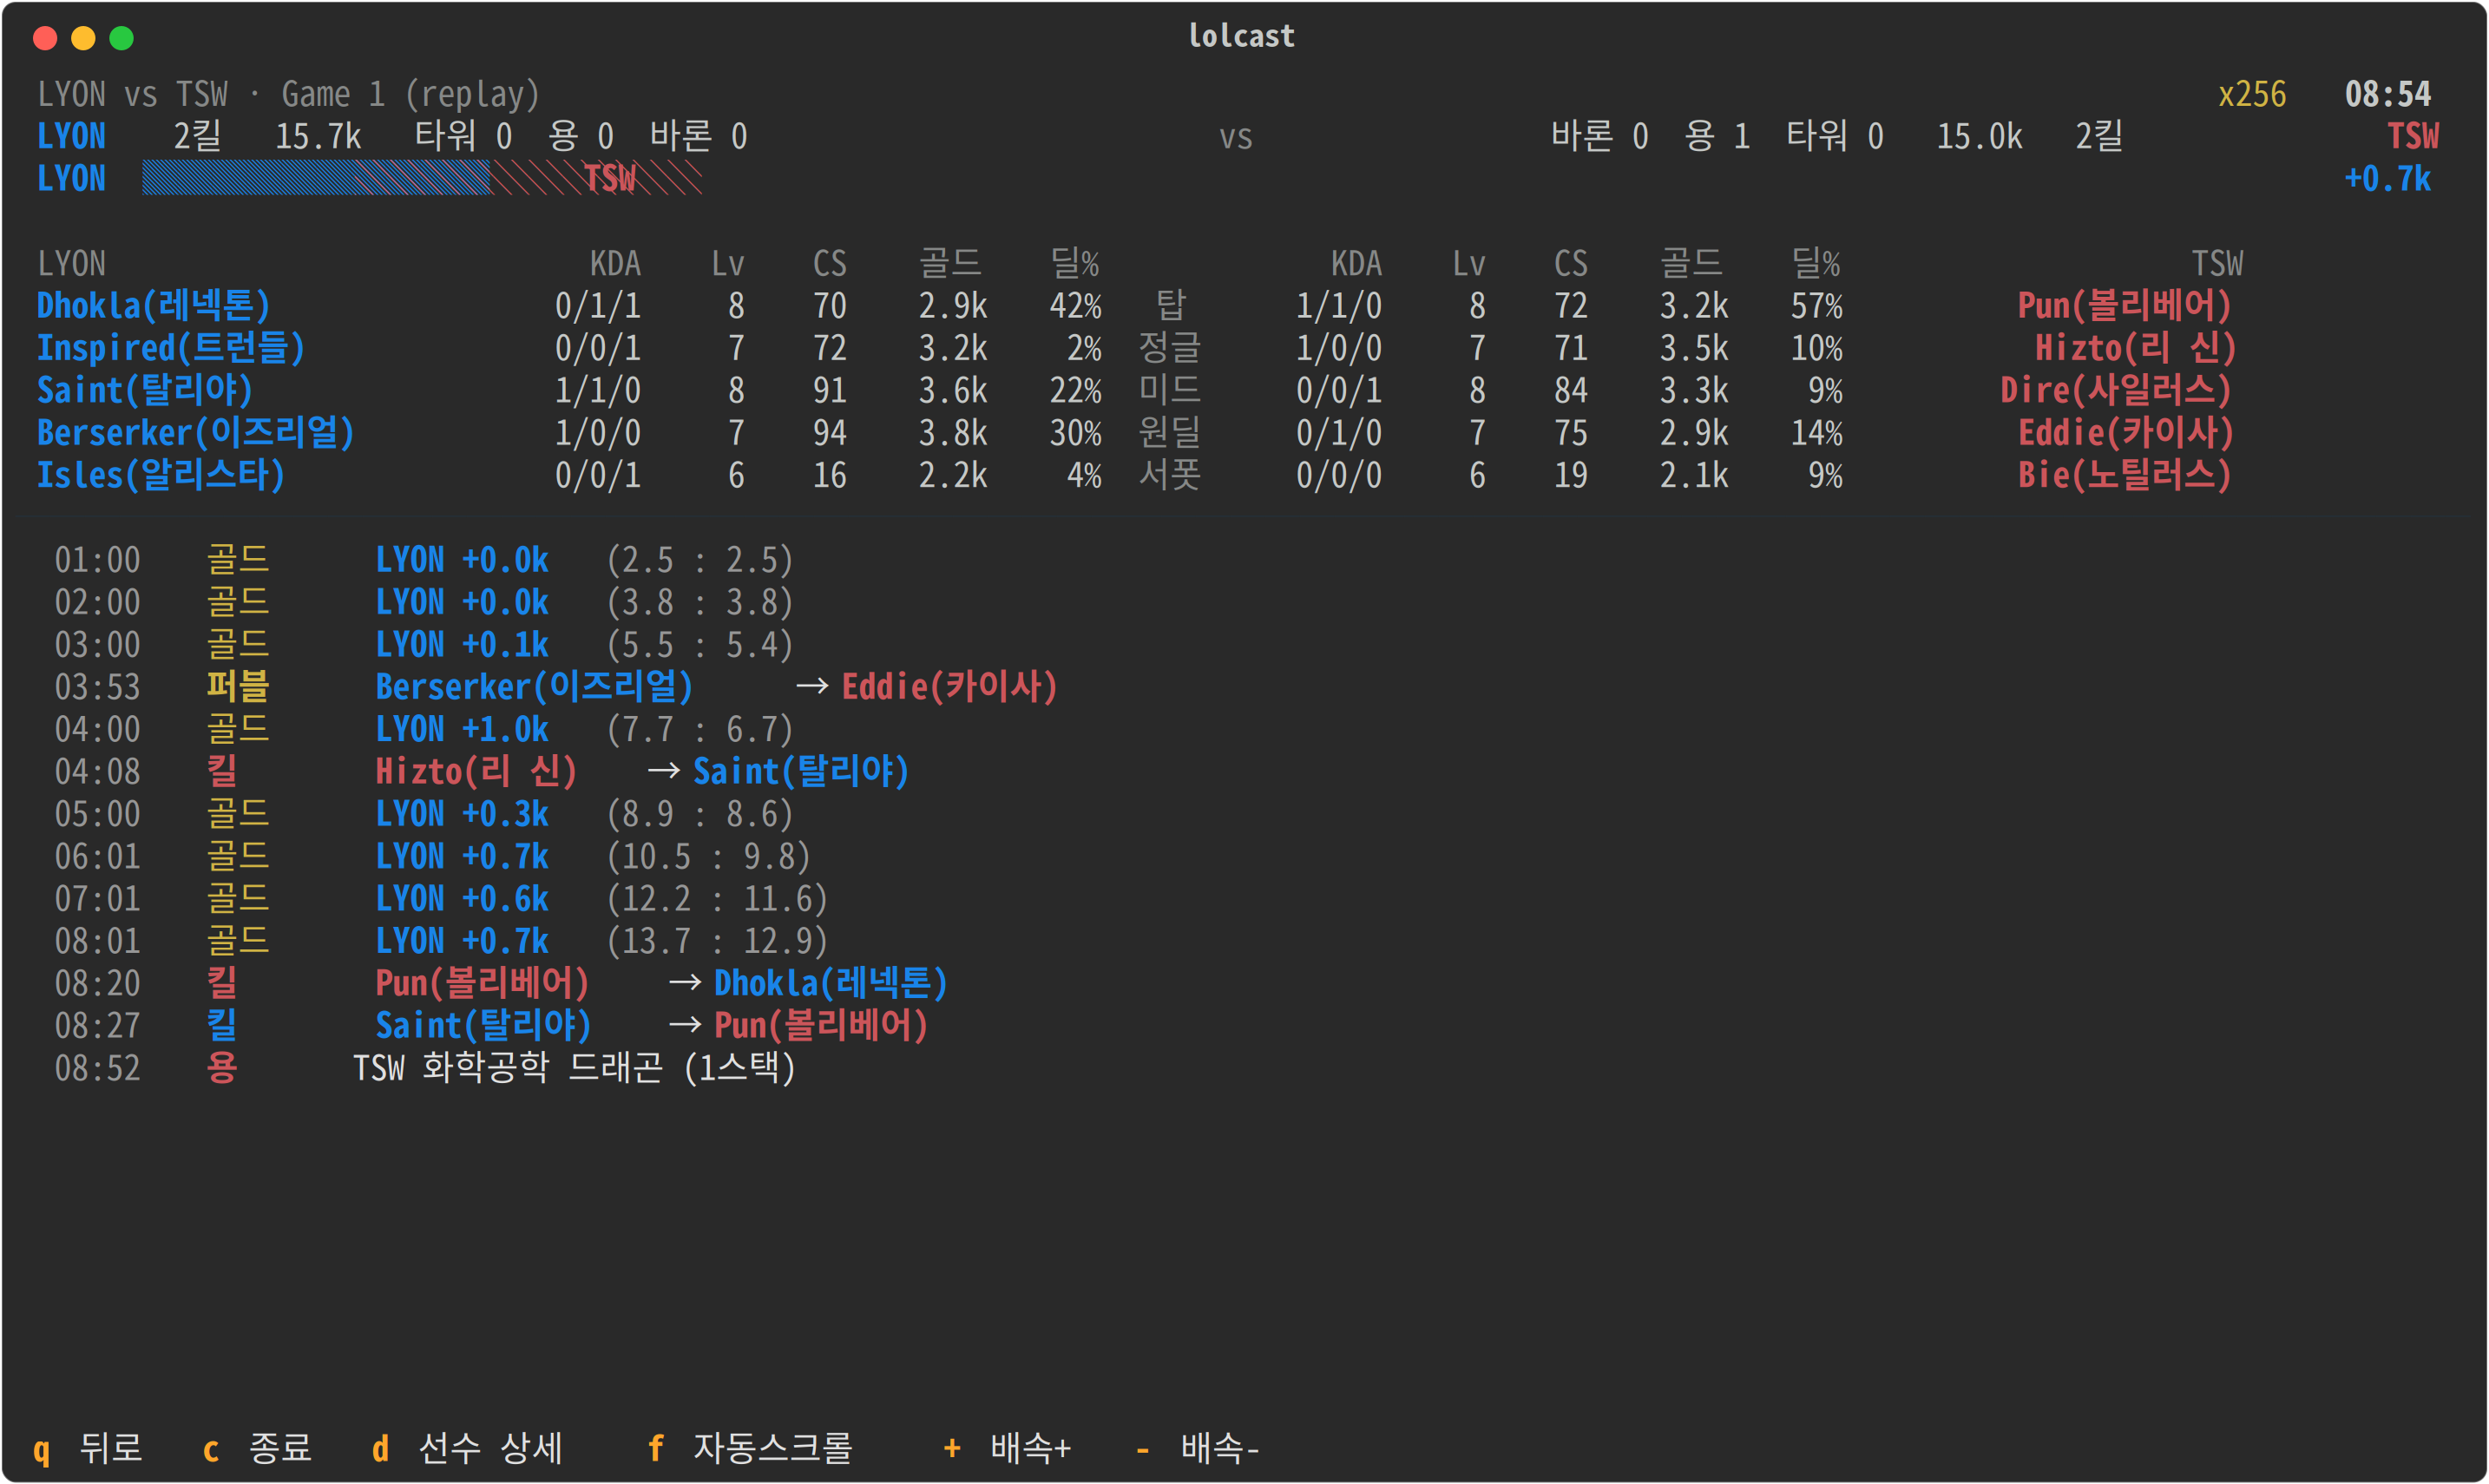
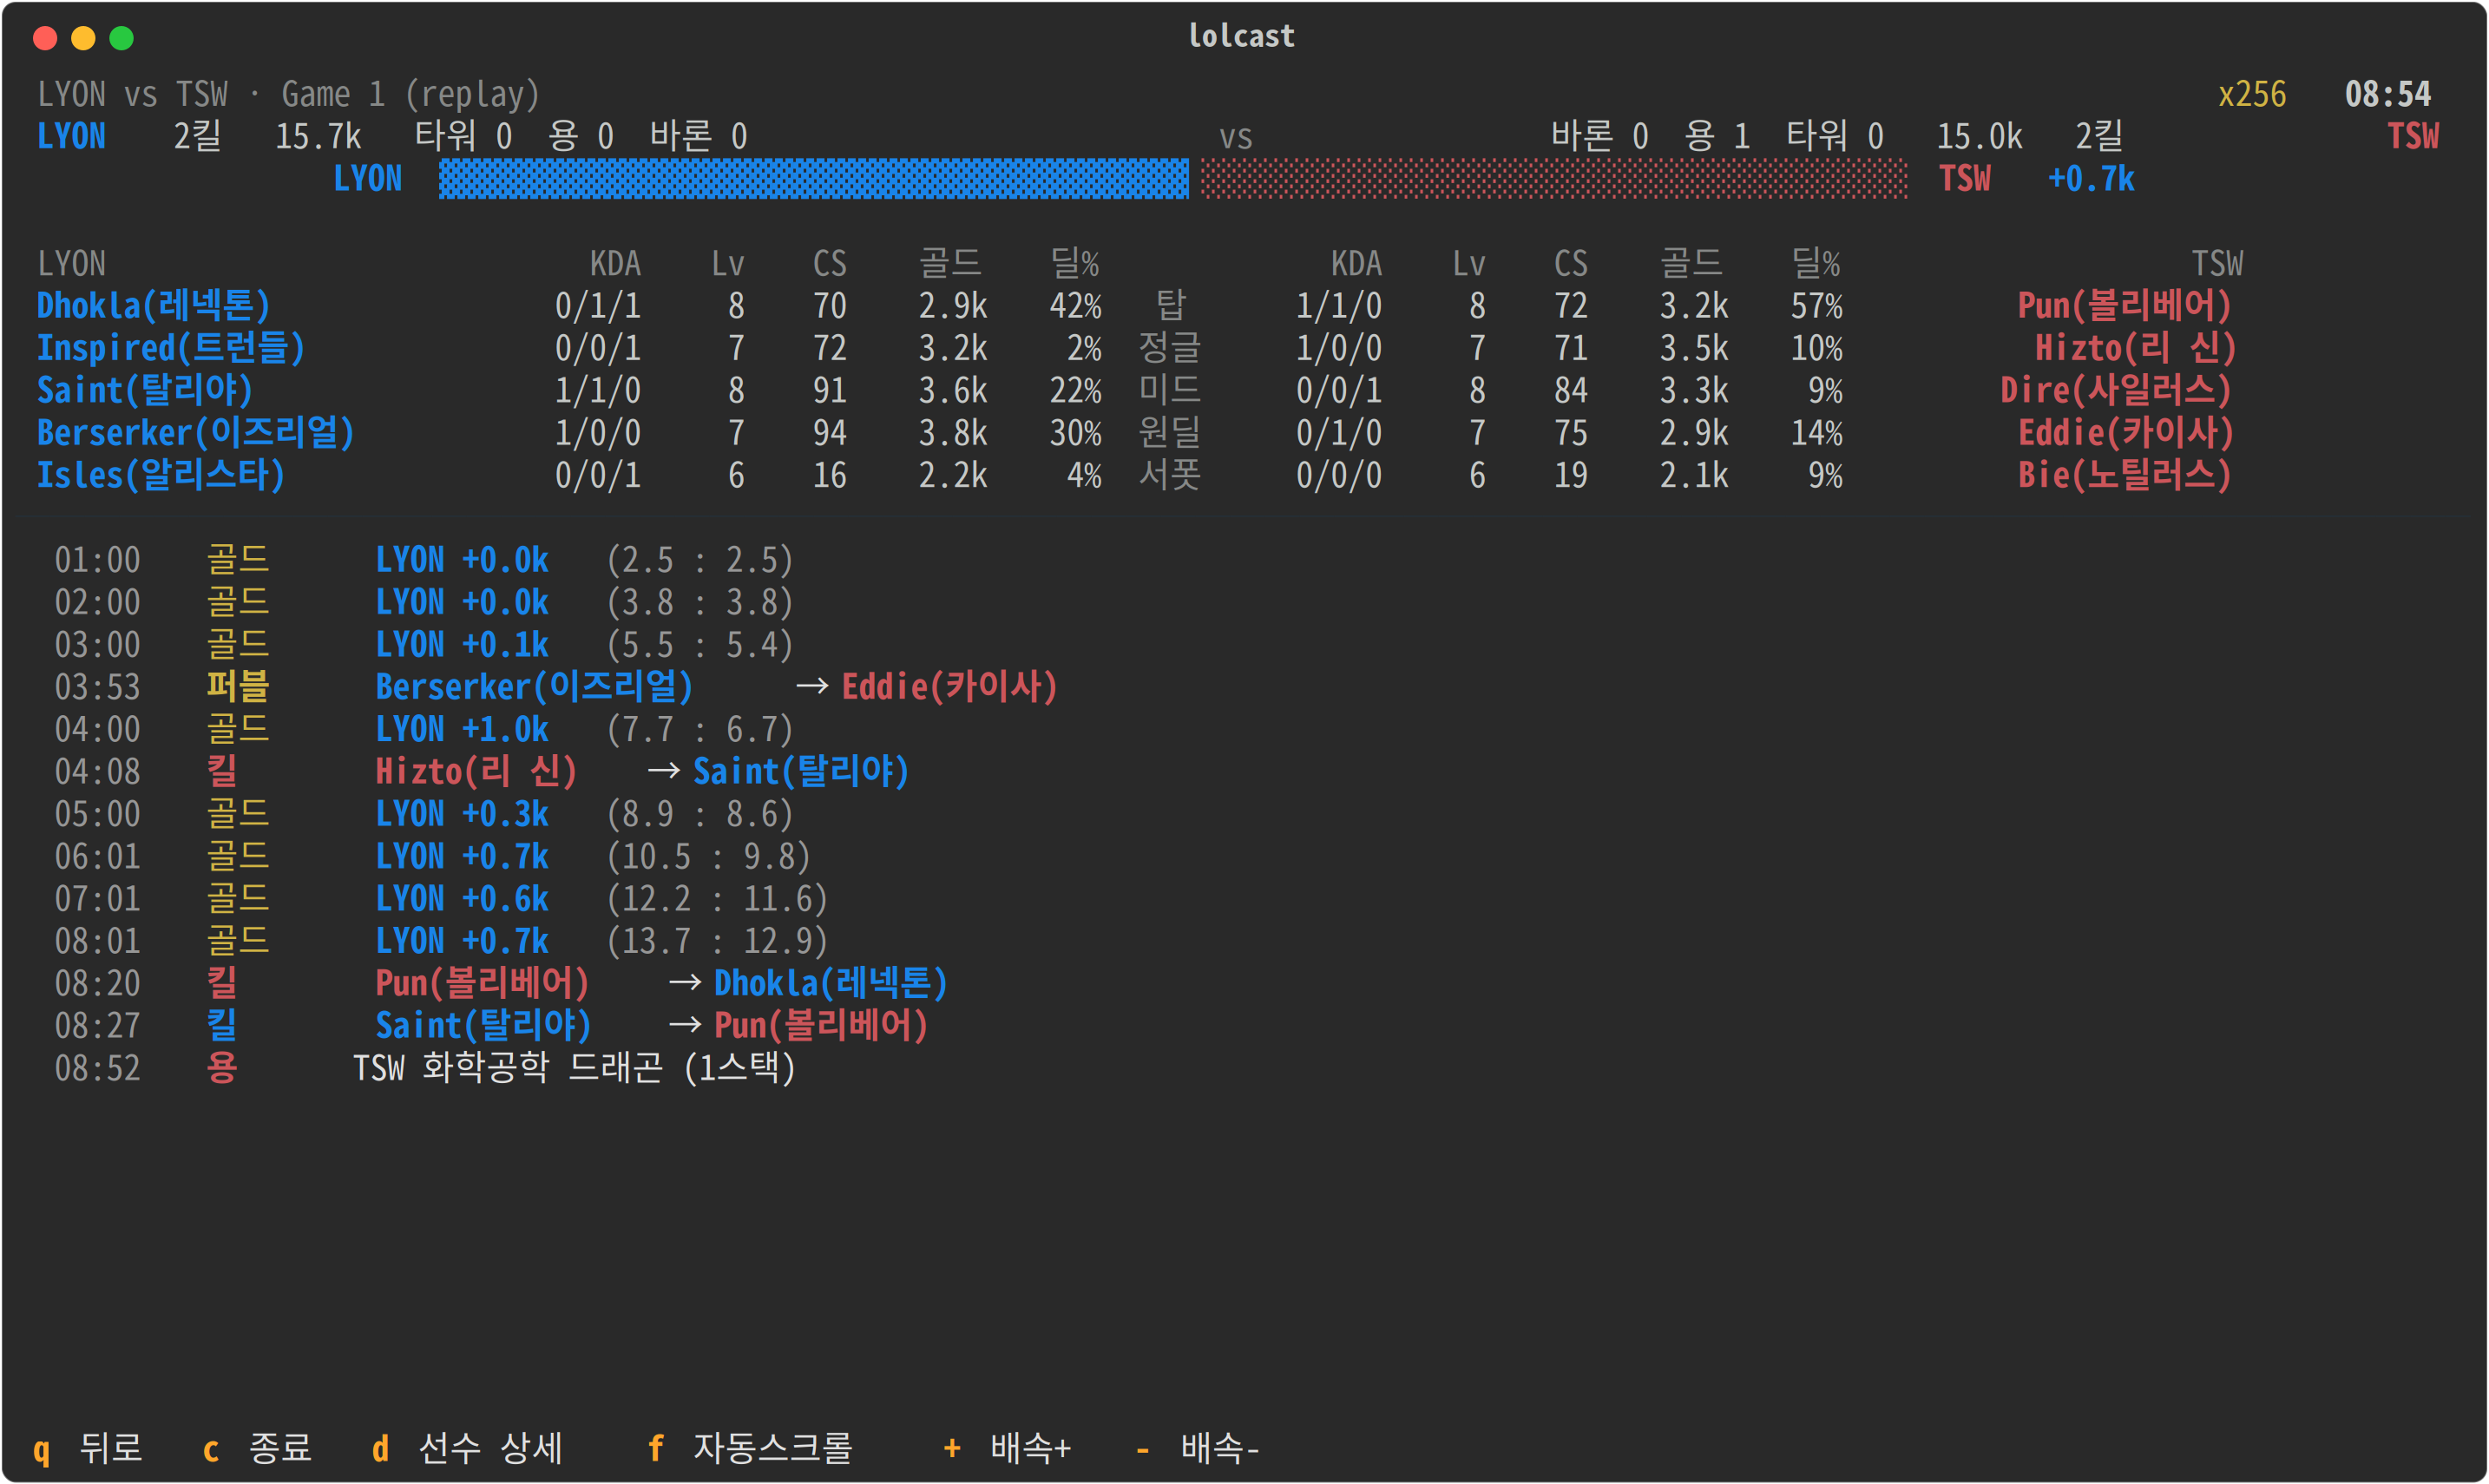
ui: centered full-width gold bar with adjacent gap label; update screenshot
Claude-Session: https://claude.ai/code/session_015NWDjEW1qUGhb4K4D2BZro

Changed region(s): [[0.0, 0.093, 0.8068, 0.155]]

diff --git a/src/lolcast/render.py b/src/lolcast/render.py
@@ -155,14 +155,17 @@ def scoreboard(ctx: GameContext, frame: dict, speed: float | None = None,
     else:
         parts.append(_teams_stacked(ctx, frame))
 
-    bar = Table.grid(expand=True, padding=(0, 1))
-    bar.add_column(justify="left", ratio=1)
-    bar.add_column(justify="right")
+    # 골드 우위 바: 가운데 정렬, 폭에 비례해 길게, 차이 라벨은 바 바로 옆에
     blue_g, red_g = frame["blueTeam"]["totalGold"], frame["redTeam"]["totalGold"]
     gap = blue_g - red_g
     side = "blue" if gap >= 0 else "red"
-    label = Text(f"+{abs(gap) / 1000:.1f}k", style=TEAM_STYLE[side])
-    bar.add_row(gold_bar(ctx, blue_g, red_g), label)
+    bar_width = max(20, min(70, (width or 60) - 26))
+    line = gold_bar(ctx, blue_g, red_g, width=bar_width)
+    line.append("  ")
+    line.append_text(Text(f"+{abs(gap) / 1000:.1f}k", style=TEAM_STYLE[side]))
+    bar = Table.grid(expand=True)
+    bar.add_column(justify="center")
+    bar.add_row(line)
     parts.append(bar)
 
     from rich.console import Group